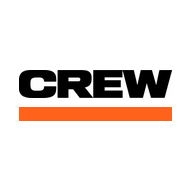
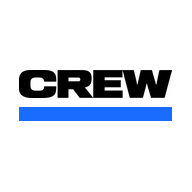
Add files via upload

Changed region(s): [[0.0938, 0.5312, 0.9062, 0.6562]]

diff --git a/styles.css b/styles.css
@@ -6,10 +6,8 @@
 :root{
   --bg:var(--crew-bg); --bg2:var(--crew-surface); --card:var(--crew-surface); --card-hi:var(--crew-surface-muted);
   --text:var(--crew-ink); --ink:var(--crew-ink); --muted:#70706B; --faint:#70706B;
-  --accent:var(--crew-orange); --accent-soft:var(--crew-orange-soft);
-  /* Фирменный оранжевый слишком светлый для мелкого текста на белом (2,9:1).
-     Для заливок он остаётся как есть, а текст и значки на светлом берут --accent-ink (4,6:1). */
-  --accent-ink:#C34512;
+  --accent:var(--crew-accent); --accent-soft:var(--crew-accent-soft);
+  --accent-ink:#4058DB;
   --good:#147C4C; --good-soft:var(--crew-success-soft);
   --bad:#BE3932; --bad-soft:var(--crew-danger-soft);
   --border:var(--crew-border); --shadow:var(--crew-shadow-card);
@@ -49,7 +47,7 @@
   .chip .dw{font-size:10.5px;font-weight:700;color:var(--muted);}
   .chip .dd{font-size:17px;font-weight:800;font-variant-numeric:tabular-nums;}
   .chip .ct{font-size:10.5px;color:var(--faint);font-variant-numeric:tabular-nums;}
-  .chip.sel{background:var(--accent);border-color:var(--accent);color:#fff;box-shadow:0 4px 12px rgba(255,90,46,.28);}
+  .chip.sel{background:var(--accent);border-color:var(--accent);color:#fff;box-shadow:0 4px 12px rgba(82,109,255,.22);}
   .chip.sel .dw,.chip.sel .ct{color:rgba(255,255,255,.85);}
   .chip.today::after{content:'';position:absolute;top:5px;right:6px;width:6px;height:6px;border-radius:50%;background:var(--good);}
 
@@ -103,7 +101,7 @@
   .empty h3{color:var(--text);font-size:17px;margin:0 0 6px;}
   .err{background:var(--bad-soft);border:1px solid rgba(255,107,107,.4);border-radius:14px;padding:14px;font-size:14px;line-height:1.5;}
 
-  .fab{position:fixed;right:18px;bottom:calc(20px + env(safe-area-inset-bottom,0px));width:58px;height:58px;border-radius:18px;background:var(--accent);border:none;display:flex;align-items:center;justify-content:center;box-shadow:0 10px 24px rgba(255,90,46,.32);z-index:20;cursor:pointer;}
+  .fab{position:fixed;right:18px;bottom:calc(20px + env(safe-area-inset-bottom,0px));width:58px;height:58px;border-radius:18px;background:var(--accent);border:none;display:flex;align-items:center;justify-content:center;box-shadow:0 10px 24px rgba(82,109,255,.24);z-index:20;cursor:pointer;}
   .fab svg{width:26px;height:26px;stroke:#fff;stroke-width:2.6;stroke-linecap:round;fill:none;}
 
   .back{position:fixed;inset:0;background:rgba(16,24,40,.45);z-index:30;display:flex;align-items:flex-end;}
@@ -118,7 +116,7 @@
   .hint{font-size:12px;color:var(--faint);margin-top:5px;line-height:1.45;}
   .two{display:flex;gap:10px;} .two>*{flex:1;min-width:0;}
   .btn{display:flex;align-items:center;justify-content:center;width:100%;padding:13px;border-radius:12px;border:none;font-weight:700;font-size:15px;margin-top:8px;cursor:pointer;text-decoration:none;}
-  .btn.p{background:var(--accent);color:#fff;box-shadow:0 6px 16px rgba(255,90,46,.25);}
+  .btn.p{background:var(--accent);color:#fff;box-shadow:0 6px 16px rgba(82,109,255,.18);}
   .btn.g{background:var(--good);color:#fff;}
   .btn.s{background:var(--card);border:1px solid var(--border);}
   .btn.q{background:transparent;color:var(--muted);}
@@ -287,7 +285,7 @@
   .tile.bad b{color:var(--bad);} .tile.bad svg{stroke:var(--bad);}
   .sech{display:flex;justify-content:space-between;align-items:baseline;margin:18px 2px 10px;font-size:17px;}
   .up{display:flex;align-items:center;gap:12px;padding:13px 14px;border-radius:16px;background:#fff;border:1px solid var(--border);margin-bottom:8px;cursor:pointer;box-shadow:var(--shadow);}
-  .up.today{background:var(--accent-soft);border-color:#ffd0bd;}
+  .up.today{background:var(--accent-soft);border-color:#D7DEFF;}
   .uw{font-weight:800;font-size:15.5px;} .us{font-size:12.5px;color:var(--muted);margin-top:2px;}
   .chev svg,.row2>svg{width:18px;height:18px;stroke:var(--faint);fill:none;stroke-width:2.2;stroke-linecap:round;stroke-linejoin:round;display:block;}
   .row2{display:flex;align-items:center;gap:12px;width:100%;text-align:left;padding:14px;border-radius:16px;background:#fff;border:1px solid var(--border);margin-bottom:8px;cursor:pointer;box-shadow:var(--shadow);}
@@ -321,7 +319,7 @@ body{letter-spacing:-.08px;}
 .tab{flex:1 0 auto;min-width:92px;min-height:44px;display:flex;align-items:center;justify-content:center;padding:10px 13px;border-radius:var(--r-ctl);background:var(--card-hi);border-color:transparent;white-space:nowrap;}
 .tab.on{background:var(--ink);border-color:var(--ink);color:#fff;}   /* филиал: графит; оранжевый оставлен для действий и выбора даты */
 .chip{width:58px;min-height:62px;box-shadow:none;}
-.chip.sel{box-shadow:0 5px 12px rgba(255,90,31,.2);}
+.chip.sel{box-shadow:0 5px 12px rgba(82,109,255,.18);}
 .summary{gap:8px;flex-wrap:wrap;line-height:1.5;}
 .summary>span:last-child{margin-left:auto;}
 .lnk{color:var(--accent);text-decoration:none;font-weight:650;margin-left:4px;}
@@ -352,7 +350,7 @@ body{letter-spacing:-.08px;}
 .dbadge{width:46px;height:50px;border-radius:13px;background:var(--card-hi);display:flex;flex-direction:column;align-items:center;justify-content:center;flex-shrink:0;}
 .dbadge small{font-size:10px;font-weight:750;color:var(--muted);} .dbadge b{font-size:18px;font-weight:850;font-variant-numeric:tabular-nums;line-height:1.1;}
 .up.today .dbadge{background:#fff;}
-button:focus-visible,input:focus-visible,select:focus-visible,[role="button"]:focus-visible,a:focus-visible{outline:3px solid rgba(255,90,31,.35);outline-offset:2px;}
+button:focus-visible,input:focus-visible,select:focus-visible,[role="button"]:focus-visible,a:focus-visible{outline:3px solid rgba(82,109,255,.30);outline-offset:2px;}
 button,[role="button"],a{touch-action:manipulation;}
 @media (max-width:390px){
   .content{padding-left:12px;padding-right:12px;}
@@ -396,7 +394,7 @@ button,[role="button"],a{touch-action:manipulation;}
   *,*::before,*::after{animation-duration:.001ms!important;animation-iteration-count:1!important;transition-duration:.001ms!important;}
 }
 
-/* 6. Контраст: оранжевый текст и значки на светлом фоне берут затемнённый оттенок */
+/* 6. Контраст: акцентные тексты и значки на светлом фоне используют тёмный синий оттенок */
 .lnk,.pill.v,.tags .tag.new.on,.pick button.on,nav.bar button.on,
 .summary .tag.f,.up .tag.f,.dbtn.on .dw,.dbtn.on .nt{color:var(--accent-ink);}
 .lnk{padding:4px 2px;display:inline-block;}   /* ссылки «сменить» и «весь месяц»: палец попадает */
@@ -432,3 +430,59 @@ button,[role="button"],a{touch-action:manipulation;}
 .bars{height:72px;margin-top:12px;}
 .pstats{font-size:12.5px;color:var(--muted);line-height:1.5;margin-top:10px;}
 .pstats b{color:var(--text);font-weight:750;font-variant-numeric:tabular-nums;}
+
+
+/* 8. CREW 2.0 — новая визуальная система: графит, холодный белый, electric blue */
+:root{
+  --accent:#526DFF;
+  --accent-soft:#EEF1FF;
+  --accent-ink:#4058DB;
+  --bg:#F3F5FA;
+  --bg2:#FFFFFF;
+  --card:#FFFFFF;
+  --card-hi:#E9EDF5;
+  --text:#151B2B;
+  --ink:#151B2B;
+  --muted:#667085;
+  --faint:#7B8497;
+  --border:#E1E6F0;
+  --shadow:0 3px 14px rgba(24,39,75,.055);
+  --r-card:18px;
+  --r-ctl:13px;
+}
+body{background:var(--bg);color:var(--text);}
+.top{background:rgba(255,255,255,.94);border-bottom-color:rgba(225,230,240,.9);}
+.title{letter-spacing:-.025em;font-weight:850;}
+.content{scrollbar-width:none;}
+.tab{background:#F0F2F8;border-color:transparent;color:#667085;}
+.tab.on{background:#151B2B;border-color:#151B2B;color:#fff;}
+.chip{border-color:#E5E9F2;background:#fff;}
+.chip.sel{background:#526DFF;border-color:#526DFF;color:#fff;box-shadow:0 5px 14px rgba(82,109,255,.2);}
+.search{background:#fff;border-color:#E1E6F0;box-shadow:0 2px 8px rgba(24,39,75,.035);}
+.search:focus,.field input:focus,.field select:focus{border-color:#526DFF;box-shadow:0 0 0 3px rgba(82,109,255,.10);}
+.card,.panel,.row2,.confirm,.pickbig button,.dbtn,.stat{box-shadow:0 3px 14px rgba(24,39,75,.045);}
+.card{border-radius:18px;border-color:#E7EAF2;}
+.mark{border-radius:15px;background:#F8F9FC;border-color:#E1E6F0;}
+.mark.on{background:#16845B;border-color:#16845B;}
+.fab{background:#526DFF;box-shadow:0 10px 24px rgba(82,109,255,.25);border-radius:19px;}
+.btn.p,.mini-btn{background:#526DFF;box-shadow:0 6px 16px rgba(82,109,255,.16);}
+.btn.p:active,.fab:active,.mini-btn:active{transform:translateY(1px);}
+.pick button.on,.tags .tag.on,.seg button.on{background:#526DFF;border-color:#526DFF;color:#fff;}
+.sortbar button.on{color:#4058DB;background:#fff;}
+.sortbtn.on{color:#4058DB;background:#EEF1FF;border-color:#D7DEFF;}
+.dbtn.on,.pickbig button.on{background:#EEF1FF;border-color:#526DFF;}
+.dbtn.on .dw,.dbtn.on .nt{color:#4058DB;}
+.stat{background:#F8F9FC;border-color:#E8EBF3;}
+.panel{border-radius:18px;}
+.sheet{background:#F9FAFD;border-color:#E5E9F2;}
+.field input,.field select{background:#fff;border-color:#E1E6F0;}
+.tags .tag,.pick button,.seg button{border-color:#E1E6F0;}
+nav.bar{background:rgba(255,255,255,.97);border-color:#E1E6F0;}
+nav.bar button.on{background:#EEF1FF;color:#4058DB;}
+.prog i,.bars i{background:#526DFF;}
+.up.today{background:#EEF1FF;border-color:#D7DEFF;}
+button:focus-visible,input:focus-visible,select:focus-visible,[role="button"]:focus-visible,a:focus-visible{outline:3px solid rgba(82,109,255,.3);outline-offset:2px;}
+@media (prefers-color-scheme:dark){
+  /* Keep the app intentionally light and consistent across devices. */
+  :root{color-scheme:light;}
+}

diff --git a/assets/design-tokens.css b/assets/design-tokens.css
@@ -1,18 +1,18 @@
-/* CREW design tokens — reference for implementation */
+/* CREW 2.0 — cool graphite / electric blue */
 :root {
-  --crew-bg: #F5F5F3;
+  --crew-bg: #F3F5FA;
   --crew-surface: #FFFFFF;
-  --crew-surface-muted: #F0F0ED;
-  --crew-ink: #171717;
-  --crew-muted: #74746F;
-  --crew-border: #E5E4DF;
-  --crew-orange: #FF5A1F;
-  --crew-orange-soft: #FFF0E9;
-  --crew-success: #168653;
-  --crew-success-soft: #E8F5EE;
-  --crew-danger: #C83D36;
-  --crew-danger-soft: #FCEDEC;
+  --crew-surface-muted: #E9EDF5;
+  --crew-ink: #151B2B;
+  --crew-muted: #667085;
+  --crew-border: #E1E6F0;
+  --crew-accent: #526DFF;
+  --crew-accent-soft: #EEF1FF;
+  --crew-success: #16845B;
+  --crew-success-soft: #E7F6EF;
+  --crew-danger: #C83D4D;
+  --crew-danger-soft: #FDECEF;
   --crew-radius-card: 18px;
-  --crew-radius-control: 12px;
-  --crew-shadow-card: 0 2px 10px rgba(20,20,20,.045);
+  --crew-radius-control: 13px;
+  --crew-shadow-card: 0 3px 14px rgba(24, 39, 75, .055);
 }

diff --git a/sw.js b/sw.js
@@ -5,7 +5,7 @@
 //
 // ВАЖНО: при любом изменении файлов из SHELL увеличивайте номер в CACHE (crew-v5, crew-v6 …).
 // Тогда новый кэш собирается целиком, а старый удаляется — файлы разных версий не смешиваются.
-var CACHE = 'crew-v6';
+var CACHE = 'crew-v7';
 var SHELL = [
   './', './index.html', './styles.css', './app.js', './manifest.json',
   './assets/design-tokens.css', './assets/crew-mark.svg', './assets/crew-wordmark.svg', './assets/crew-wordmark-light.svg', './assets/empty-state.svg',

diff --git a/index.html b/index.html
@@ -7,7 +7,7 @@
 <meta name="mobile-web-app-capable" content="yes">
 <meta name="apple-mobile-web-app-status-bar-style" content="default">
 <meta name="apple-mobile-web-app-title" content="CREW">
-<meta name="theme-color" content="#FFFFFF">
+<meta name="theme-color" content="#F3F5FA">
 <link rel="manifest" href="manifest.json">
 <link rel="apple-touch-icon" href="apple-touch-icon.png">
 <link rel="icon" href="icon-192.png">

diff --git a/README.md b/README.md
@@ -3,6 +3,10 @@
 Рабочее PWA-приложение для студии CREW (брейкинг и ОФП). Статический сайт без сборки: HTML, CSS и JavaScript без библиотек.
 Данные хранятся в вашей Google Таблице, связь идёт через Google Apps Script (адрес и ключ вводятся в приложении: Ещё → Настройки).
 
+## Визуальный стиль CREW 2.0
+
+Графитовая типографика, холодный светлый фон и электрический синий акцент. Оранжевый цвет удалён из интерфейса и фирменных иконок.
+
 ## Состав
 
 | Файл | Назначение |
@@ -30,11 +34,11 @@
 
 1. После публикации откройте приложение с интернетом. Новая версия скачивается в фоне.
 2. На главном экране появится плашка **«Вышла новая версия приложения — Обновить»**. Нажмите её, приложение перезагрузится уже с новыми файлами. Если плашки нет, закройте приложение полностью и откройте снова.
-3. Проверка на компьютере: Chrome → F12 → Application → Service Workers должен показывать `activated`, а в Cache Storage должен остаться один кэш с текущим номером (сейчас `crew-v6`).
+3. Проверка на компьютере: Chrome → F12 → Application → Service Workers должен показывать `activated`, а в Cache Storage должен остаться один кэш с текущим номером (сейчас `crew-v7`).
 4. Установка на iPhone: Safari → «Поделиться» → «На экран Домой». На Android: меню Chrome → «Установить приложение».
 
 ### Правило для разработчика
-Любое изменение `index.html`, `styles.css`, `app.js`, иконок или `assets/` требует увеличить номер в `sw.js` (`var CACHE = 'crew-v6'` → `crew-v6`). Новый кэш собирается целиком и только потом заменяет старый, поэтому файлы разных версий не смешиваются.
+Любое изменение `index.html`, `styles.css`, `app.js`, иконок или `assets/` требует увеличить номер в `sw.js` (`var CACHE = 'crew-v7'` → `crew-v8`). Новый кэш собирается целиком и только потом заменяет старый, поэтому файлы разных версий не смешиваются.
 
 ## Офлайн-режим
 - Интерфейс открывается без интернета.
